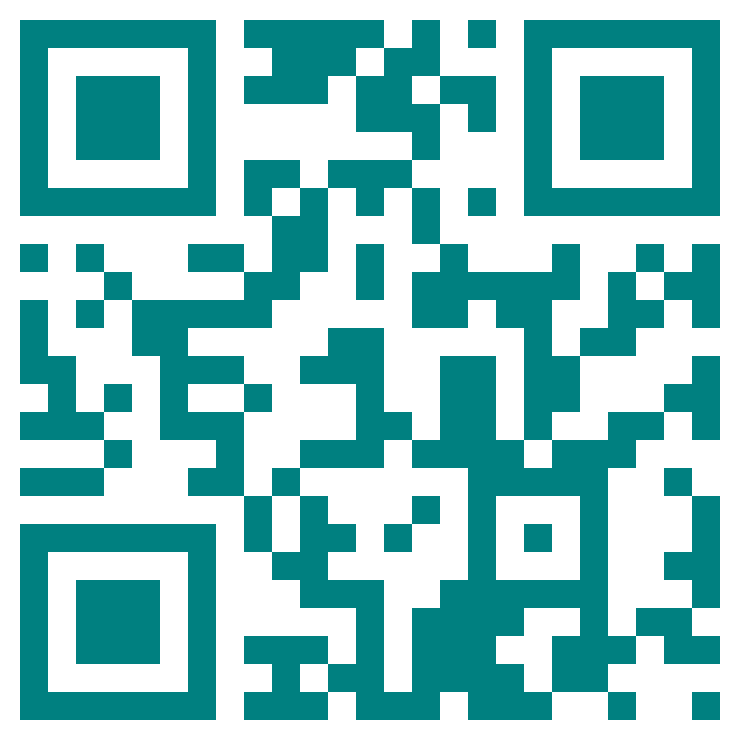
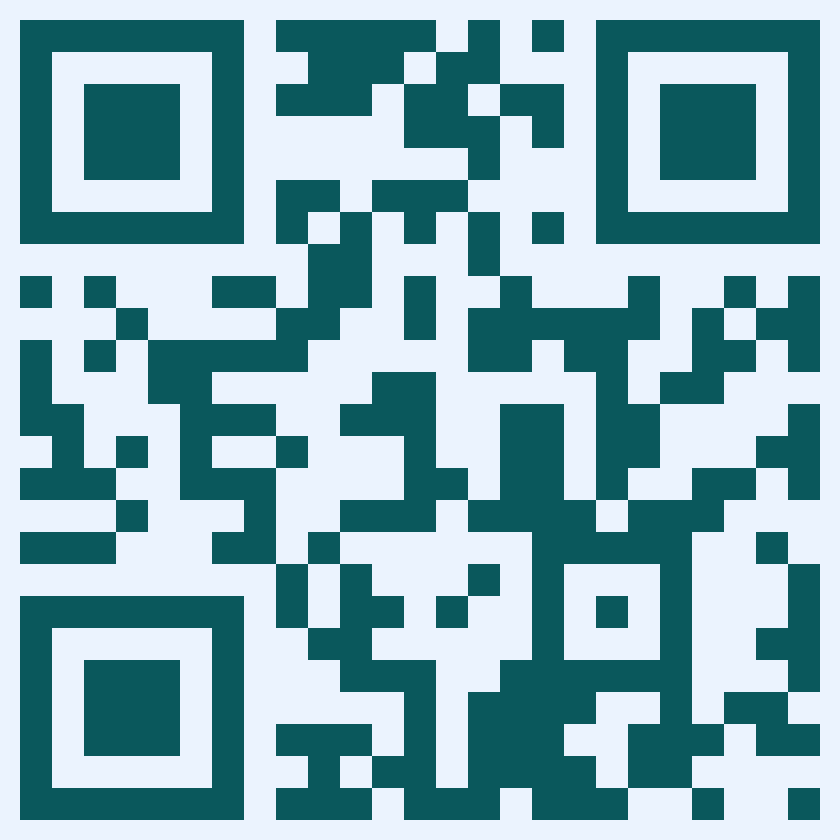
first pass at updated primary and secondary color

diff --git a/src/components/Home/IntroSection/IntroSection.tsx b/src/components/Home/IntroSection/IntroSection.tsx
@@ -5,6 +5,7 @@ import { GetStartedButton, TriggerLoadingButton } from "../../tiny/buttons";
 import { intro } from "../../../text";
 import { postEmail } from "../../../fetchers";
 import { CREATED, OK } from "node-kall";
+import { QRCode } from "react-qrcode-logo";
 
 const DisclaimerBox = () => <Box
     width={1}>
@@ -92,7 +93,6 @@ export const IntroSection = () => {
                         <Box width={[1 / 20, 1 / 6]}></Box>
                         <Box width={[9 / 10, 4 / 6]}>
                             <Image margin="auto auto" src="/krets-qr.png" />
-                            {/* <Link href="https://krets.app/krets">https://krets.app/krets</Link> */}
                         </Box>
                         <Box width={[1 / 20, 1 / 6]}></Box>
                     </Flex>

diff --git a/src/components/tiny/emoji.tsx b/src/components/tiny/emoji.tsx
@@ -18,8 +18,8 @@ export const KretsEmoji = props => {
         <Button aria-label="response-emoji-button" backgroundColor="secondary"
             /* sx={{
                 boxShadow: "large",
-            }}*/ >
-            <div style={{ borderBottom: (type === emotion && "solid teal"), borderRadius: "5px" }}>
+            }}*/ >                                  //NOTE: old: solid teal
+            <div style={{ borderBottom: (type === emotion && "solid #0A585C"), borderRadius: "5px" }}>
                 <Text>{emojidata[type]}</Text>
             </div>
 

diff --git a/src/pages/[pageId]/code.tsx b/src/pages/[pageId]/code.tsx
@@ -44,7 +44,7 @@ const QRImage = ({ page }) => {
             style={{ textAlign: "center" }}
         >
             <div className={"qr-code"}>
-                <QRCode value={pageLink} enableCORS={false} size={400} fgColor={'teal'} />
+                <QRCode value={pageLink} enableCORS={false} size={400} fgColor={'#0A585C'} bgColor="#EBF3FE" />
             </div>
         </Box>
     </Box >

diff --git a/src/components/theme.ts b/src/components/theme.ts
@@ -10,8 +10,8 @@ export const KretsTheme = {
         monospace: 'inherit',
     },
     colors: {
-        secondary: "#FDFEFC",
-        primary: "teal", //'#B4497C',
+        secondary: "#EBF3FE", //old FDFEFC
+        primary: "#0A585C", //old: 'teal',
         success: '#048243',
         failure: '#D5174E',
         attention: 'orange',

diff --git a/src/components/tiny/loader.tsx b/src/components/tiny/loader.tsx
@@ -10,7 +10,7 @@ export const Loader = ({ size }: { size: number }) => <Box width={1}>
                 display: block;
                 margin: 0 auto;`}
             size={size}
-            color={"teal"}
+            color={"#0A585C"} //old: teal
         />
     </span>
 </Box >

diff --git a/public/legal/style.css b/public/legal/style.css
@@ -2,10 +2,10 @@
 body {
     font-family: 'Open Sans, sans-serif';
     font-size: large;
-    background-color: #FDFEFC;
+    background-color: #EBF3FE;/*#FDFEFC;*/
 }
 
 h1 {
-    color: teal
+    color: #0A585C/*teal*/
 }
   
